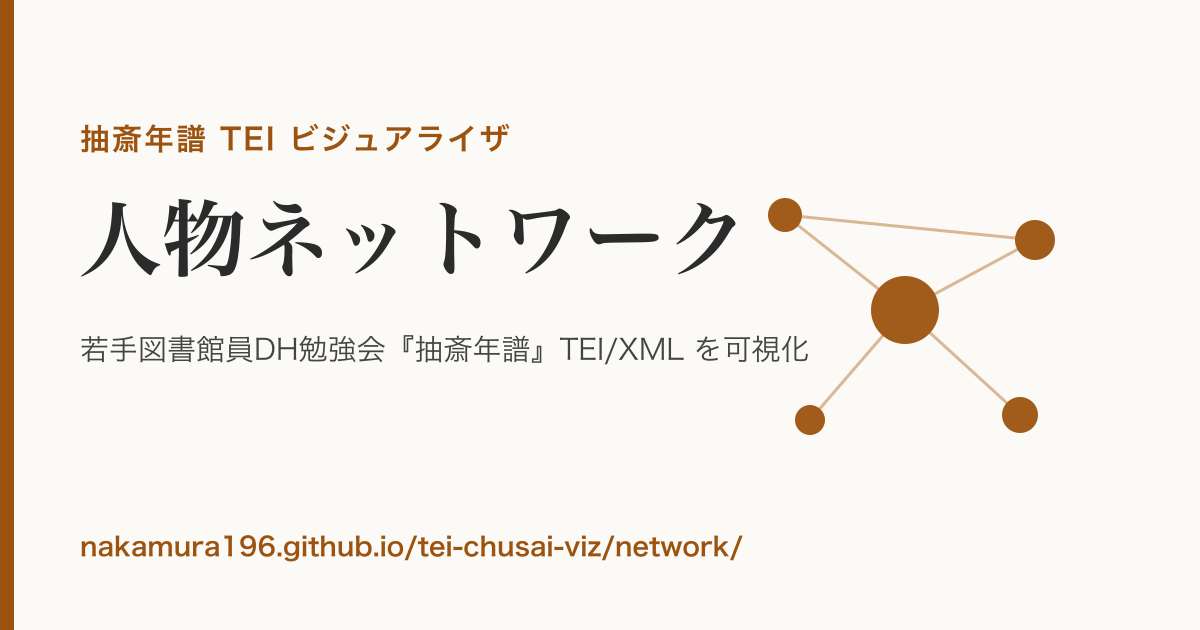
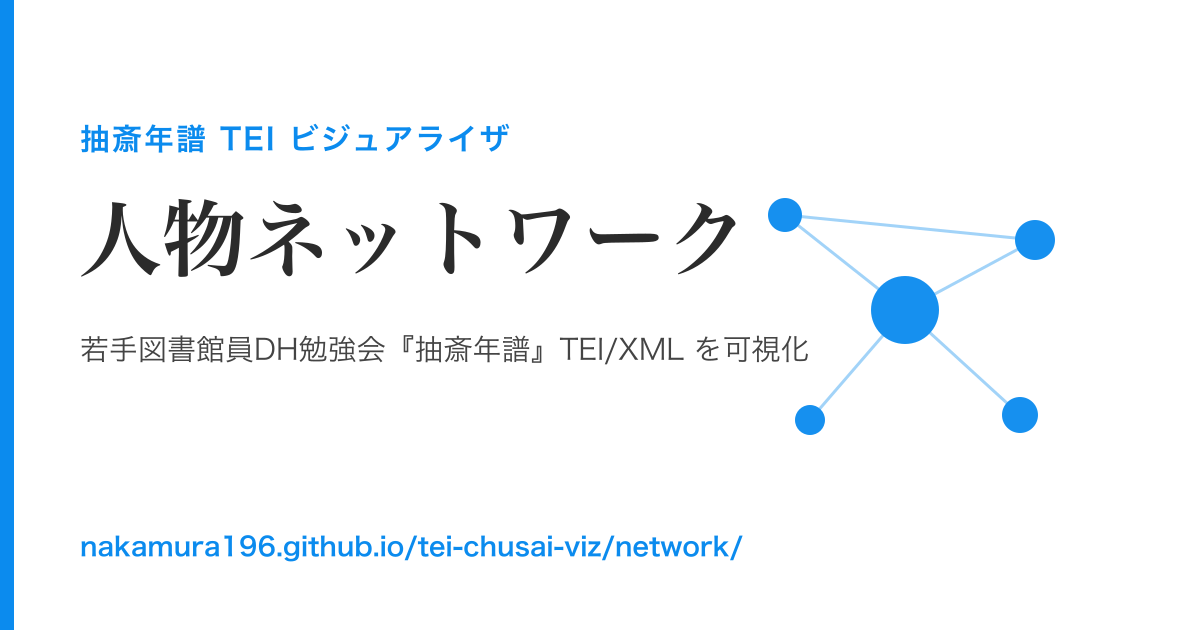
配色を東京大学ビジュアル・アイデンティティ（UTokyo Blue）へ刷新
@nakamura196/react-ui のデザイントークンに準拠。
- アクセントを茶系から UTokyo Blue (#0b8bee) 基調へ。本文 sans / 見出し serif。
- ネットワーク/タイムラインのノード配色を青のトーナルスケールに統一。
- favicon・OG画像（トップ＋3ビュー）を青基調で再生成。

diff --git a/css/style.css b/css/style.css
@@ -1,20 +1,35 @@
 :root {
-  --accent: #9c530f;
-  --ink: #2b2b2b;
-  --muted: #5f5f5f;
-  --line: #e3e3e3;
-  --bg: #fbfaf7;
+  /* 東京大学 Visual Identity（@nakamura196/react-ui のトークンに準拠） */
+  --ds-blue: #0b8bee;       /* UTokyo Blue (PANTONE 2194C) */
+  --ds-blue-700: #096fbe;
+  --ds-blue-400: #6db9f5;
+  --ds-blue-300: #9dd1f8;
+  --ds-yellow: #ffcd00;     /* UTokyo Yellow */
+  --ds-surface: #f7f9fb;
+  --ds-surface-2: #eef2f7;
+  --ds-font-sans: "Noto Sans JP", ui-sans-serif, system-ui, -apple-system,
+    "Hiragino Sans", "Hiragino Kaku Gothic ProN", Meiryo, sans-serif;
+  --ds-font-serif: "Noto Serif JP", ui-serif, Georgia,
+    "Hiragino Mincho ProN", "Yu Mincho", serif;
+  /* セマンティック別名 */
+  --accent: var(--ds-blue);
+  --accent-hover: var(--ds-blue-700);
+  --ink: #1a1a1a;
+  --muted: #51607a;
+  --line: #e2e8f0;
+  --bg: #ffffff;
 }
 * { box-sizing: border-box; }
 body {
   margin: 0;
-  font-family: "Hiragino Mincho ProN", "Yu Mincho", serif;
+  font-family: var(--ds-font-sans);
   color: var(--ink);
   background: var(--bg);
   line-height: 1.7;
 }
 header, main, footer { max-width: 1080px; margin: 0 auto; padding: 0 20px; }
 header { padding-top: 24px; }
+h1, h2, h3 { font-family: var(--ds-font-serif); }
 h1 { font-size: 1.6rem; margin: 0 0 4px; }
 .subtitle { margin: 0 0 16px; color: #444; font-size: 0.95rem; }
 
@@ -51,9 +66,9 @@ svg text { font-family: "Hiragino Kaku Gothic ProN", sans-serif; }
 .insights .caveat li { font-size: 0.8rem; color: var(--muted); }
 
 /* AI下書きバッジ */
-.ai-badge { display: inline-block; background: #8a3b1e; color: #fff; font-size: 0.72rem;
+.ai-badge { display: inline-block; background: #096fbe; color: #fff; font-size: 0.72rem;
   padding: 1px 8px; border-radius: 10px; white-space: nowrap; }
-.ai-tag { font-size: 0.62rem; background: #8a3b1e; color: #fff; padding: 0 5px; border-radius: 8px; vertical-align: middle; }
+.ai-tag { font-size: 0.62rem; background: #096fbe; color: #fff; padding: 0 5px; border-radius: 8px; vertical-align: middle; }
 
 /* 対訳ビュー（4列: 年譜 | 年譜訳 | 渋江抽斎 | 抽斎訳） */
 .parallel { display: flex; flex-direction: column; gap: 0; margin-top: 12px; }
@@ -63,11 +78,11 @@ svg text { font-family: "Hiragino Kaku Gothic ProN", sans-serif; }
 }
 .parallel-head { font-weight: 600; color: var(--accent); border-bottom: 2px solid var(--accent); }
 .parallel .cell { font-size: 0.95rem; }
-.parallel .cell.modern { color: #444; background: #faf7f2; padding: 6px 8px; border-radius: 3px; }
+.parallel .cell.modern { color: #444; background: #f7f9fb; padding: 6px 8px; border-radius: 3px; }
 .parallel-head .cell.modern { background: none; padding: 0; }
 .parallel .cell.novel { color: #333; }
-.parallel-row.chron-only { background: #fcfbf8; }
-.parallel .muted { color: #8a8a8a; }
+.parallel-row.chron-only { background: #f7f9fb; }
+.parallel .muted { color: #51607a; }
 .parallel .gap { color: var(--accent); font-size: 0.8em; }
 .note-asterisk { display: block; margin-top: 4px; font-size: 0.72rem; color: var(--muted); }
 .cn-key {
@@ -91,7 +106,7 @@ footer a { color: var(--accent); }
 /* ===== ビュー間ナビ ===== */
 .topnav { display: flex; flex-wrap: wrap; gap: 4px 6px; margin: 4px 0 16px; font-size: 0.92rem; }
 .topnav a { color: var(--muted); text-decoration: none; padding: 5px 12px; border-radius: 6px; }
-.topnav a:hover { background: #f0ece4; color: var(--ink); }
+.topnav a:hover { background: #eef2f7; color: var(--ink); }
 .topnav a[aria-current="page"] { background: var(--accent); color: #fff; font-weight: 600; }
 
 /* ===== お知らせ ===== */

diff --git a/js/network.js b/js/network.js
@@ -33,7 +33,7 @@ export function renderNetwork(container, model) {
   node.append('circle')
     .attr('r', (d) => r(d.count))
     // 未同定（listPerson未登録）=灰色＋破線、VIAF同定済=オレンジ、その他=青灰。色＋線種で冗長化。
-    .attr('fill', (d) => (!d.person ? '#d9d4cc' : d.person.viaf ? '#b5651d' : '#7a9eb1'))
+    .attr('fill', (d) => (!d.person ? '#cbd5e1' : d.person.viaf ? '#0b8bee' : '#6db9f5'))
     .attr('stroke', (d) => (!d.person ? '#999' : '#fff'))
     .attr('stroke-width', (d) => (!d.person ? 1.5 : 1.2))
     .attr('stroke-dasharray', (d) => (!d.person ? '3,2' : null));
@@ -43,7 +43,7 @@ export function renderNetwork(container, model) {
     .attr('x', (d) => r(d.count) + 3).attr('y', 4)
     .attr('font-size', 11).attr('fill', '#333')
     // 白いハロー（縁取り）で重なっても読めるように
-    .attr('stroke', '#fbfaf7').attr('stroke-width', 3).attr('paint-order', 'stroke')
+    .attr('stroke', '#ffffff').attr('stroke-width', 3).attr('paint-order', 'stroke')
     .attr('stroke-linejoin', 'round')
     .style('display', (d) => (d.count >= 3 ? null : 'none')); // 主要人物のみ常時ラベル
 
@@ -75,8 +75,8 @@ export function renderNetwork(container, model) {
   const legend = document.createElement('p');
   legend.className = 'legend';
   legend.innerHTML = `人物 ${nodes.length} 名 / 共起 ${links.length} 関係。`
-    + `円の大きさ＝登場年数、<span style="color:#b5651d">●</span> VIAF同定済み、`
-    + `<span style="color:#7a9eb1">●</span> その他、<span style="color:#999">◌</span> 未同定（破線）。`
+    + `円の大きさ＝登場年数、<span style="color:#0b8bee">●</span> VIAF同定済み、`
+    + `<span style="color:#6db9f5">●</span> その他、<span style="color:#999">◌</span> 未同定（破線）。`
     + `ノードにカーソルを合わせると詳細、ドラッグ／ズーム可。`;
   container.appendChild(legend);
 }

diff --git a/js/timeline.js b/js/timeline.js
@@ -54,7 +54,7 @@ export function renderTimeline(container, model, topN = 25) {
 
   rows.each(function (d) {
     const ys = [...(model.personYears.get(d.id) || [])].sort((a, b) => a - b);
-    const color = !d.person ? '#999' : d.person.viaf ? '#b5651d' : '#7a9eb1';
+    const color = !d.person ? '#999' : d.person.viaf ? '#0b8bee' : '#6db9f5';
     const viaf = d.person && d.person.viaf;
     d3.select(this).selectAll('circle').data(ys).join('circle')
       .attr('cx', (yr) => x(yr)).attr('cy', rowH / 2).attr('r', 4)
